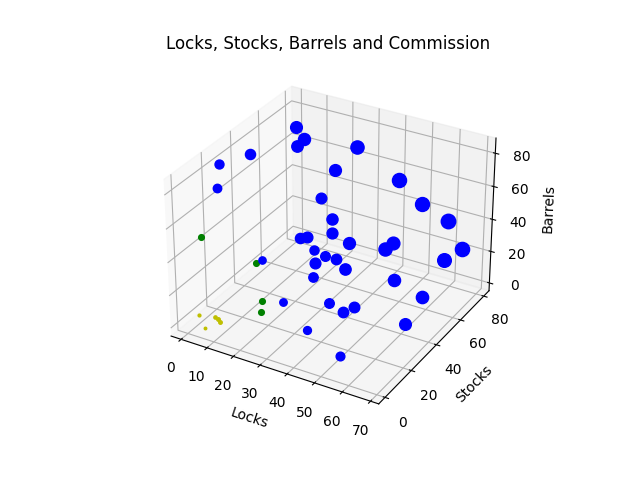
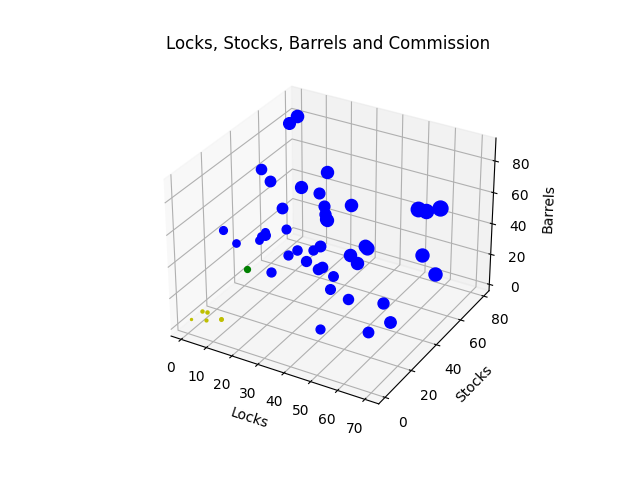
fixes, updated commission problem

diff --git a/sandbox-code/loc.py b/sandbox-code/loc.py
@@ -11,6 +11,9 @@ from typing import Dict
 # help from:
 #   https://docs.python.org/3/library/re.html#module-re
 
+# TODO:
+#   • add multiple files as input
+#   • count print statements (?)
 
 nl           = re.compile('\n', re.MULTILINE)
 blank        = re.compile('^\s*$', re.MULTILINE)
@@ -27,12 +30,12 @@ assertions   = re.compile('^\s*assert ', re.MULTILINE)       # all assertions st
 
 # -----------------------------------------------
 # NOTE/Warning:
-# a) not efficient - it uses 1 regex per pass, 11 regexes
-# b) not full proof - things like links with '#' can screw up the counts (like above)
-# c) not a parser & not perfect, just mostly useful
-# d) alias="python3 <path>/loc.py"  ⇒ helps
+#   a) not efficient - it uses 1 regex per pass, 11 regexes
+#   b) not fool proof - things like links with '#' can screw up the counts (like above)
+#   c) not a parser & not perfect, just *mostly useful*
+#   d) alias="python3 <path>/loc.py"  ⇒ helps
 
-def count_lines(file_path: str, syntax: bool = True) -> Dict[str, int]:
+def count_lines(file_path: str) -> Dict[str, int]:
     """Count the number of lines of code, comments, blank lines, ect in a file."""
 
     results = {}
@@ -66,16 +69,33 @@ def count_lines(file_path: str, syntax: bool = True) -> Dict[str, int]:
 
         results['lines-code'] = len(code.findall(text)) - n
 
-        if syntax:
-            results['functions'] = len(funcs.findall(text))
-            results['classes'] = len(classes.findall(text))
-            results['class-defs'] = len(class_def.findall(text))
-            results['imports'] = len(imports.findall(text))
-            results['assertions'] = len(assertions.findall(text))
+        results['functions'] = len(funcs.findall(text))
+        results['classes'] = len(classes.findall(text))
+        results['class-defs'] = len(class_def.findall(text))
+        results['imports'] = len(imports.findall(text))
+        results['assertions'] = len(assertions.findall(text))
 
     return results
 
-# -----------------------------------------------
+
+def pretty(results: Dict[str, int]) -> str:
+
+    line =  '╭' + ' total chars:      ' + format(results['total-chars'], '>6,') + ' ╮\n'
+    line += '╰' + ' non-ws chars:     ' + format(results['non-ws chars'],'>6,') + ' ╯\n'
+    line += '╭' + ' total lines:      ' + format(results['total lines'], '>6,') + ' ╮\n'
+    line += '│' + ' lines of code:    ' + format(results['lines-code'], '>6,') + ' │\n'
+    line += '╰' + ' blank lines:      ' + format(results['blank'], '>6,') + ' ╯\n'
+    line += '╭' + ' comments:         ' + format(results['comment'], '>6,') + ' ╮\n'
+    line += '╰' + ' in-line comments: ' + format(results['inline comment'], '>6,') + ' ╯\n'
+    line += '╭' + ' def stmts:        ' + format(results['functions'], '>6,') + ' ╮\n'
+    line += '│' + ' imports:          ' + format(results['imports'], '>6,') + ' │\n'
+    line += '╰' + ' assertions:       ' + format(results['assertions'], '>6,') + ' ╯\n'
+    line += '╭' + ' classes:          ' + format(results['classes'], '>6,') + ' ╮\n'
+    line += '╰' + ' class defs:       ' + format(results['class-defs'], '>6,') + ' ╯\n'
+
+    return line
+
+# ---------------------------------------------
 
 parser = argparse.ArgumentParser(description="Count the number of lines in code.")
 
@@ -110,8 +130,10 @@ if __name__ == '__main__':
                     print()
                     print(f'File "{file_.name}" has:\n')
 
-                    for variable, count in results.items():
-                        print('  ', '{:<15}'.format(variable), '{:>7}'.format(count))
+                    # for variable, count in results.items():
+                    #     print('  ', '{:<15}'.format(variable), '{:>7}'.format(count))
+
+                    print(pretty(results))
 
                     print('\n', '-' * 25, '\n')
 
@@ -123,7 +145,9 @@ if __name__ == '__main__':
         print()
         print(f'File "{file}" has:\n')
 
-        for variable, count in results.items():
-            print('  ', '{:<15}'.format(variable), '{:>7}'.format(count))
+        # for variable, count in results.items():
+        #     print('  ', '{:<15}'.format(variable), '{:>7}'.format(count))
+
+        print(pretty(results))
 
         print()

diff --git a/Source/Examples/commission_problem/test_commission.py b/Source/Examples/commission_problem/test_commission.py
@@ -13,15 +13,15 @@ from commission import *
 
 # This file was generated automatically by falcon.
 # from: commission.fcn
-# on 2022 Jul 02 Sat 20:39:58
+# on 2022 Jul 05 Tue 11:33:57
 
 sales = sales_values()
 linear_sales = linear_sales()
 
-# too_low = lambda l,s,b: l <= 1 or s <= 1 or b <= 1
-# too_high = lambda l,s,b: l >= lock_max or s >= stock_max or b >= barrel_max
+# too_low = lambda l,s,b: l <= 0 and s <= 0 and b <= 0
+# too_high = lambda l,s,b: l > 100 and s > 100 and b > 100
 
-def test_commission_I5():
+def test_commission_mdB():
 
     cases = defaultdict(list)
     results = defaultdict(list)
@@ -56,7 +56,7 @@ def test_commission_I5():
     plot_commission(cases, results)
 
 
-def test_commission_GSgH():
+def test_commission_RI():
 
     cases = defaultdict(list)
     results = defaultdict(list)
@@ -69,21 +69,17 @@ def test_commission_GSgH():
             result = e
 
         if too_low(locks, stocks, barrels) or too_high(locks, stocks, barrels):
-            print(f'WRONG      {locks},{stocks},{barrels} -> {result}')
             assert is_error(result)
             cases['invalid'].append((locks, stocks, barrels))
             results['invalid'].append(result)
         elif low_sales(locks, stocks, barrels):
-            print(f'LOW {locks},{stocks},{barrels} -> {result}')
             cases['low'].append((locks, stocks, barrels))
             results['low'].append(result)
         elif medium_sales(locks, stocks, barrels):
-            print(f'MEDIUM {locks},{stocks},{barrels} -> {result}')
             assert medium_commission(result)
             cases['medium'].append((locks, stocks, barrels))
             results['medium'].append(result)
         elif high_sales(locks, stocks, barrels):
-            print(f'HIGH {locks},{stocks},{barrels} -> {result}')
             assert high_commission(result)
             cases['high'].append((locks, stocks, barrels))
             results['high'].append(result)
@@ -93,7 +89,3 @@ def test_commission_GSgH():
     assert low_commission_group(results['low'], 5)
 
     plot_commission(cases, results)
-
-
-# test_commission_I5()
-test_commission_GSgH()

diff --git a/Source/falcon.py b/Source/falcon.py
@@ -40,6 +40,9 @@ parser.add_argument('--debug', '-d', default=False, action='store_true',
 parser.add_argument('--pytest', default=False, action='store_true',
                     required=False, help='Invoke PyTest and run on the output file')
 
+parser.add_argument('--coverage', default=True, action='store_true',
+                    required=False, help='When using PyTest, measure coverage')
+
 if __name__ == '__main__':
 
     # TODO: do better file handling, at least using test file...
@@ -139,8 +142,13 @@ if __name__ == '__main__':
 
     # invoke PyTest
     #   https://docs.pytest.org/en/latest/how-to/usage.html
+    #   https://pytest-cov.readthedocs.io/en/latest/config.html
 
     if args.pytest:
+
         print('***** RUNNING PyTest *****')
 
-        test = pytest.main([output])
+        if args.coverage:
+            test = pytest.main([output, '--maxfail=10', f'--cov={output}', '--cov-report=html'])
+        else:
+            test = pytest.main([output, '--maxfail=10'])
